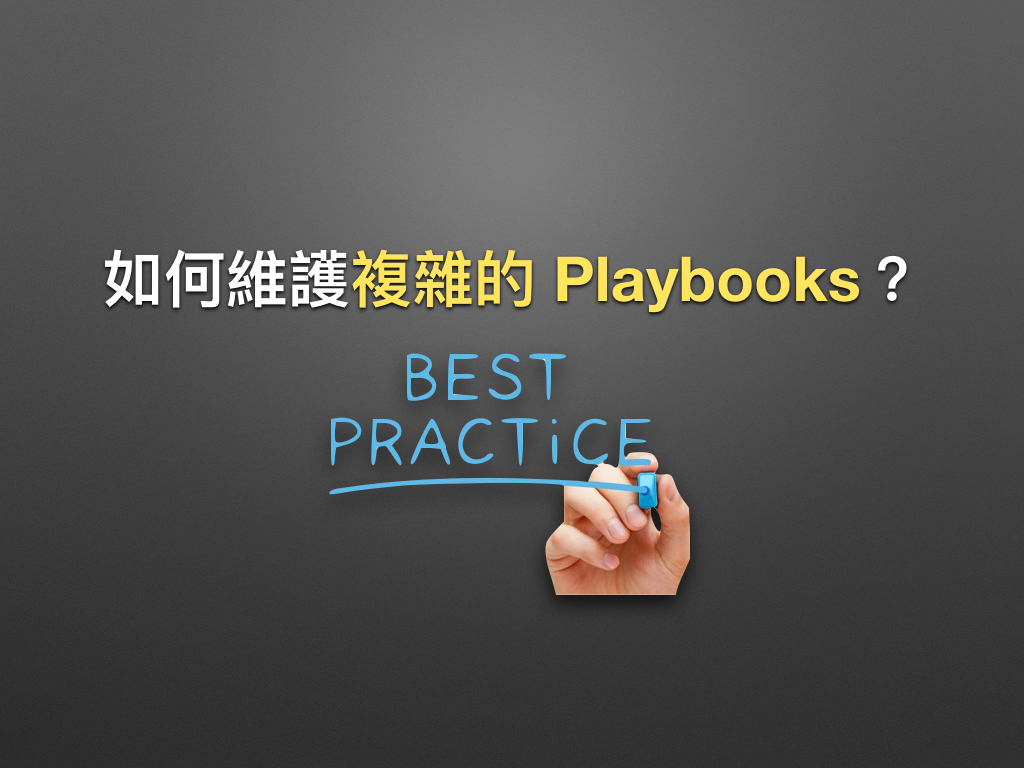
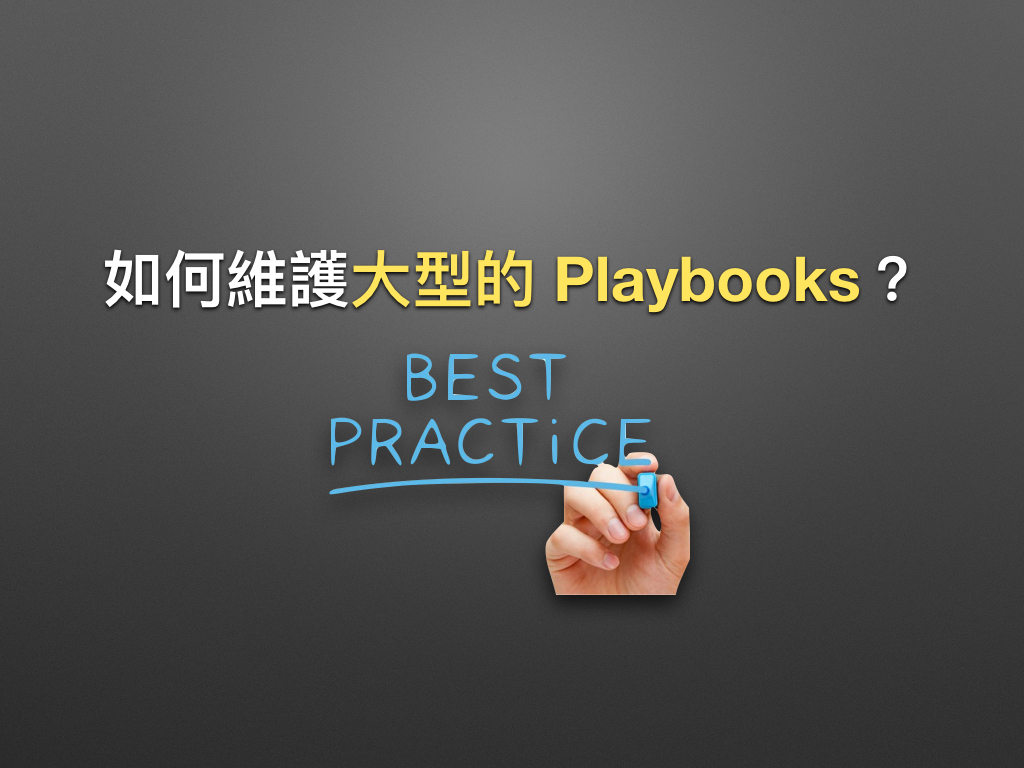
複雜的 Playbooks --> 大型的 Playbooks
使用複雜的 Playbooks 容易與《Ansible: Up and Running》裡的文章混淆。

Changed region(s): [[0.3438, 0.3125, 0.4688, 0.4062]]

diff --git a/19.how-to-maintain-the-complex-playbooks.md b/19.how-to-maintain-the-complex-playbooks.md
@@ -1,6 +1,6 @@
 # 現代 IT 人一定要知道的 Ansible 自動化組態技巧
 
-## 19. 如何維護複雜的 Playbooks？
+## 19. 如何維護大型的 Playbooks？
 
 在學時，凍仁曾藉由大型程式來撰寫複雜的 C 語言。如今當 Ansible Playbooks 寫久之後，其架構也會變得複雜，這時該怎麼寫才好維護呢？就讓凍仁娓娓道來吧！
 
@@ -117,7 +117,7 @@ update_config.yml
 
 ### 總結
 
-大家可以先照著官方的規劃練習，寫久了再依個人風格調整即可，畢竟要讓複雜的 Playbooks 變得好維護，不外乎為以下原則：
+大家可以先照著官方的規劃練習，寫久了再依個人風格調整即可，畢竟要讓大型的 Playbooks 變得好維護，不外乎為以下原則：
 
 1. 透過 inventory file 和變數把 local, staging 和 production 等環境。
 1. 儘可能的把重複的 tasks 獨立出來，然後讓 playbook 依不同需求 include 進來用。在這個例子裡，凍仁把 `setup.yml` 和 `update_config.yml` 兩個 playbook 中重複的 tasks 獨立成 `tasks/setting_api.yml`，並透過 `include` 重複使用。
@@ -126,7 +126,7 @@ update_config.yml
 
 ### 後語
 
-我們可以藉由 Roles 讓複雜的 Playbooks 更易於維護，在此文中也一直提到它的重要性，這部份就讓凍仁留在下一章介紹了。 
+我們可以藉由 Roles 讓大型的 Playbooks 更易於維護，在此文中也一直提到它的重要性，這部份就讓凍仁留在下一章介紹了。 
 
 
 ### 相關連結

diff --git a/23.how-to-setup-lnmp-webapp-with-roles-2.md b/23.how-to-setup-lnmp-webapp-with-roles-2.md
@@ -2,14 +2,14 @@
 
 ## 23. 怎麼用 Roles 部署 LNMP 網頁應用程式？(下)
 
-上一章「[22. 怎麼用 Roles 部署 LNMP 網頁應用程式？(上)](22.how-to-setup-lnmp-webapp-with-roles-1.md)」我們挑選了 Nginx, MySQL 和 PHP 的 Roles，接下來就讓凍仁展示怎麼用 Roles **簡化**複雜的 TestLink Playbooks 吧！
+上一章「[22. 怎麼用 Roles 部署 LNMP 網頁應用程式？(上)](22.how-to-setup-lnmp-webapp-with-roles-1.md)」我們挑選了 Nginx, MySQL 和 PHP 的 Roles，接下來就讓凍仁展示怎麼用 Roles **簡化**大型的 TestLink Playbooks 吧！
 
 ![automate_with_ansible_practice-26.jpg](imgs/automate_with_ansible_practice-26.jpg)
 
 
 ### 怎麼用 Roles 撰寫強化版的 Playbooks？
 
-在這份 Playbooks 與「[19. 如何維護複雜的 Playbooks？](19.how-to-maintain-the-complex-playbooks.md)」不同的是，凍仁除了把 variables, tasks, handlers 拆開寫以外，還加入 Roles 的部份。
+在這份 Playbooks 與「[19. 如何維護大型的 Playbooks？](19.how-to-maintain-the-complex-playbooks.md)」不同的是，凍仁除了把 variables, tasks, handlers 拆開寫以外，還加入 Roles 的部份。
 
 #### 取得範例檔
 

diff --git a/README.md b/README.md
@@ -31,7 +31,7 @@ Ansible 是個與 Puppet, SaltStack, Chef 並駕齊驅的組態設定 (Infrastru
 1. [Ansible 如何發送 notification 到 Slack？](16.how-to-send-notification-to-slack-on-ansible.md)
 1. [Ansible 如何發送 notification 到 HipChat？](17.how-to-send-notification-to-hipchat-on-ansible.md)
 1. [如何在 Playbooks 使用 loops？](18.how-to-use-loops-in-playbooks.md)
-1. [如何維護複雜的 Playbooks？](19.how-to-maintain-the-complex-playbooks.md)
+1. [如何維護大型的 Playbooks？](19.how-to-maintain-the-complex-playbooks.md)
 1. [Roles 是什麼？](20.what-is-the-roles.md)
 1. [怎麼使用 Roles？](21.how-to-use-the-roles.md)
 1. [怎麼用 Roles 部署 LNMP 網頁應用程式？(上)](22.how-to-setup-lnmp-webapp-with-roles-1.md)

diff --git a/25.how_to_share_roles_on_galaxy-1.md b/25.how_to_share_roles_on_galaxy-1.md
@@ -11,7 +11,7 @@
 
 範例 `lab/ch23/testlink` 其實就是個把 Playbooks 拆開的 Role，它真正的程式進入點為 `tasks/main.yml`，而 `setup.yml` 只是為了測試 Playbooks 的正確性而存在的。這也是為什麼凍仁會用 `setup.yml` include `tasks/main.yml`，再用 `tasks/main.yml` include 其它 tasks 的原因。
 
-> 在「[19. 如何維護複雜的 Playbooks？](19.how-to-maintain-the-complex-playbooks.md)」一文時，凍仁建議大家把 Playbooks 給拆開，為的就是要把它打包成 Roles。
+> 在「[19. 如何維護大型的 Playbooks？](19.how-to-maintain-the-complex-playbooks.md)」一文時，凍仁建議大家把 Playbooks 給拆開，為的就是要把它打包成 Roles。
 
 ```
 $ tree -L 2

diff --git a/SUMMARY.md b/SUMMARY.md
@@ -18,7 +18,7 @@
 1. [Ansible 如何發送 notification 到 Slack？](16.how-to-send-notification-to-slack-on-ansible.md)
 1. [Ansible 如何發送 notification 到 HipChat？](17.how-to-send-notification-to-hipchat-on-ansible.md)
 1. [如何在 Playbooks 使用 loops？](18.how-to-use-loops-in-playbooks.md)
-1. [如何維護複雜的 Playbooks？](19.how-to-maintain-the-complex-playbooks.md)
+1. [如何維護大型的 Playbooks？](19.how-to-maintain-the-complex-playbooks.md)
 1. [Roles 是什麼？](20.what-is-the-roles.md)
 1. [怎麼使用 Roles？](21.how-to-use-the-roles.md)
 1. [怎麼用 Roles 部署 LNMP 網頁應用程式？(上)](22.how-to-setup-lnmp-webapp-with-roles-1.md)

diff --git a/20.what-is-the-roles.md b/20.what-is-the-roles.md
@@ -2,7 +2,7 @@
 
 ## 20. Roles 是什麼？
 
-在上一章「[19. 如何維護複雜的 Ansible Playbooks？](19.how-to-maintain-the-complex-playbooks.md)」凍仁提到 Roles 很重要、很好用！這章凍仁就來介紹可讓我們加速升空的火箭 (Rocket) [^1] 吧！
+在上一章「[19. 如何維護大型的 Ansible Playbooks？](19.how-to-maintain-the-complex-playbooks.md)」凍仁提到 Roles 很重要、很好用！這章凍仁就來介紹可讓我們加速升空的火箭 (Rocket) [^1] 吧！
 
 ![automate_with_ansible_roles_and_windows-01.jpg](imgs/automate_with_ansible_roles_and_windows-01.jpg)
 
